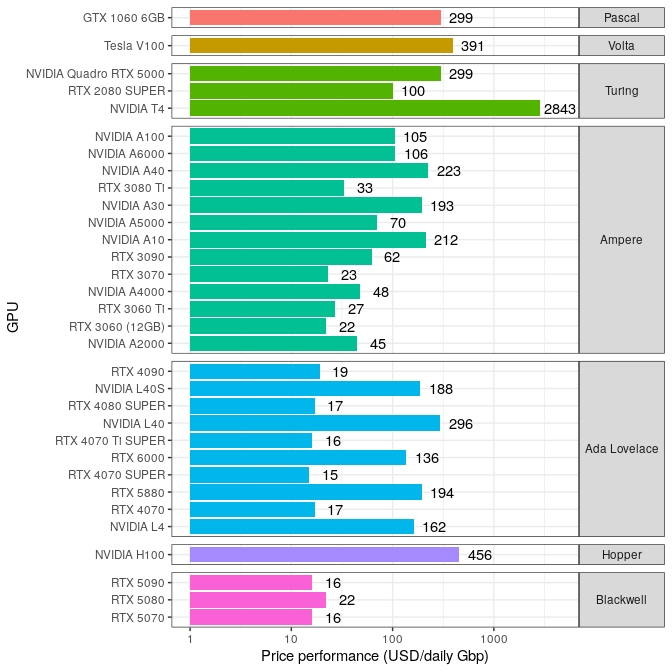
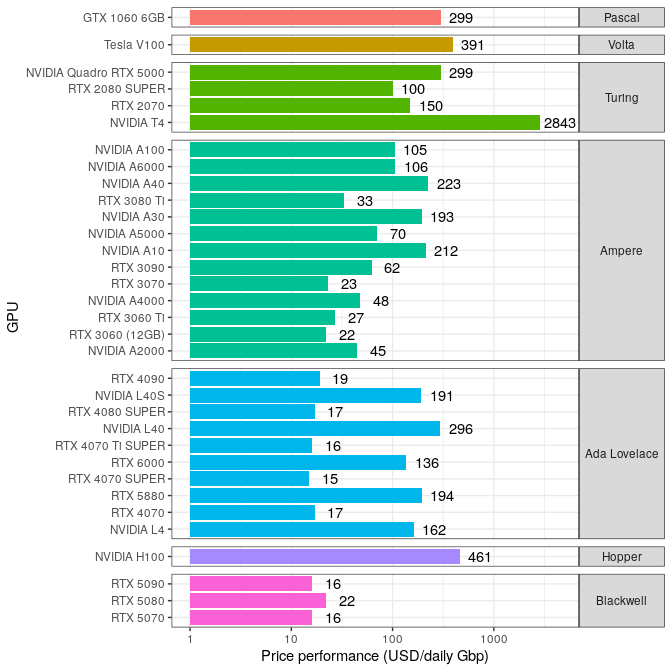
added RTX 2070

diff --git a/README.md b/README.md
@@ -1,7 +1,7 @@
 README
 ================
 Rasmus Kirkegaard
-29 July, 2025
+30 July, 2025
 
 ## Aim
 
